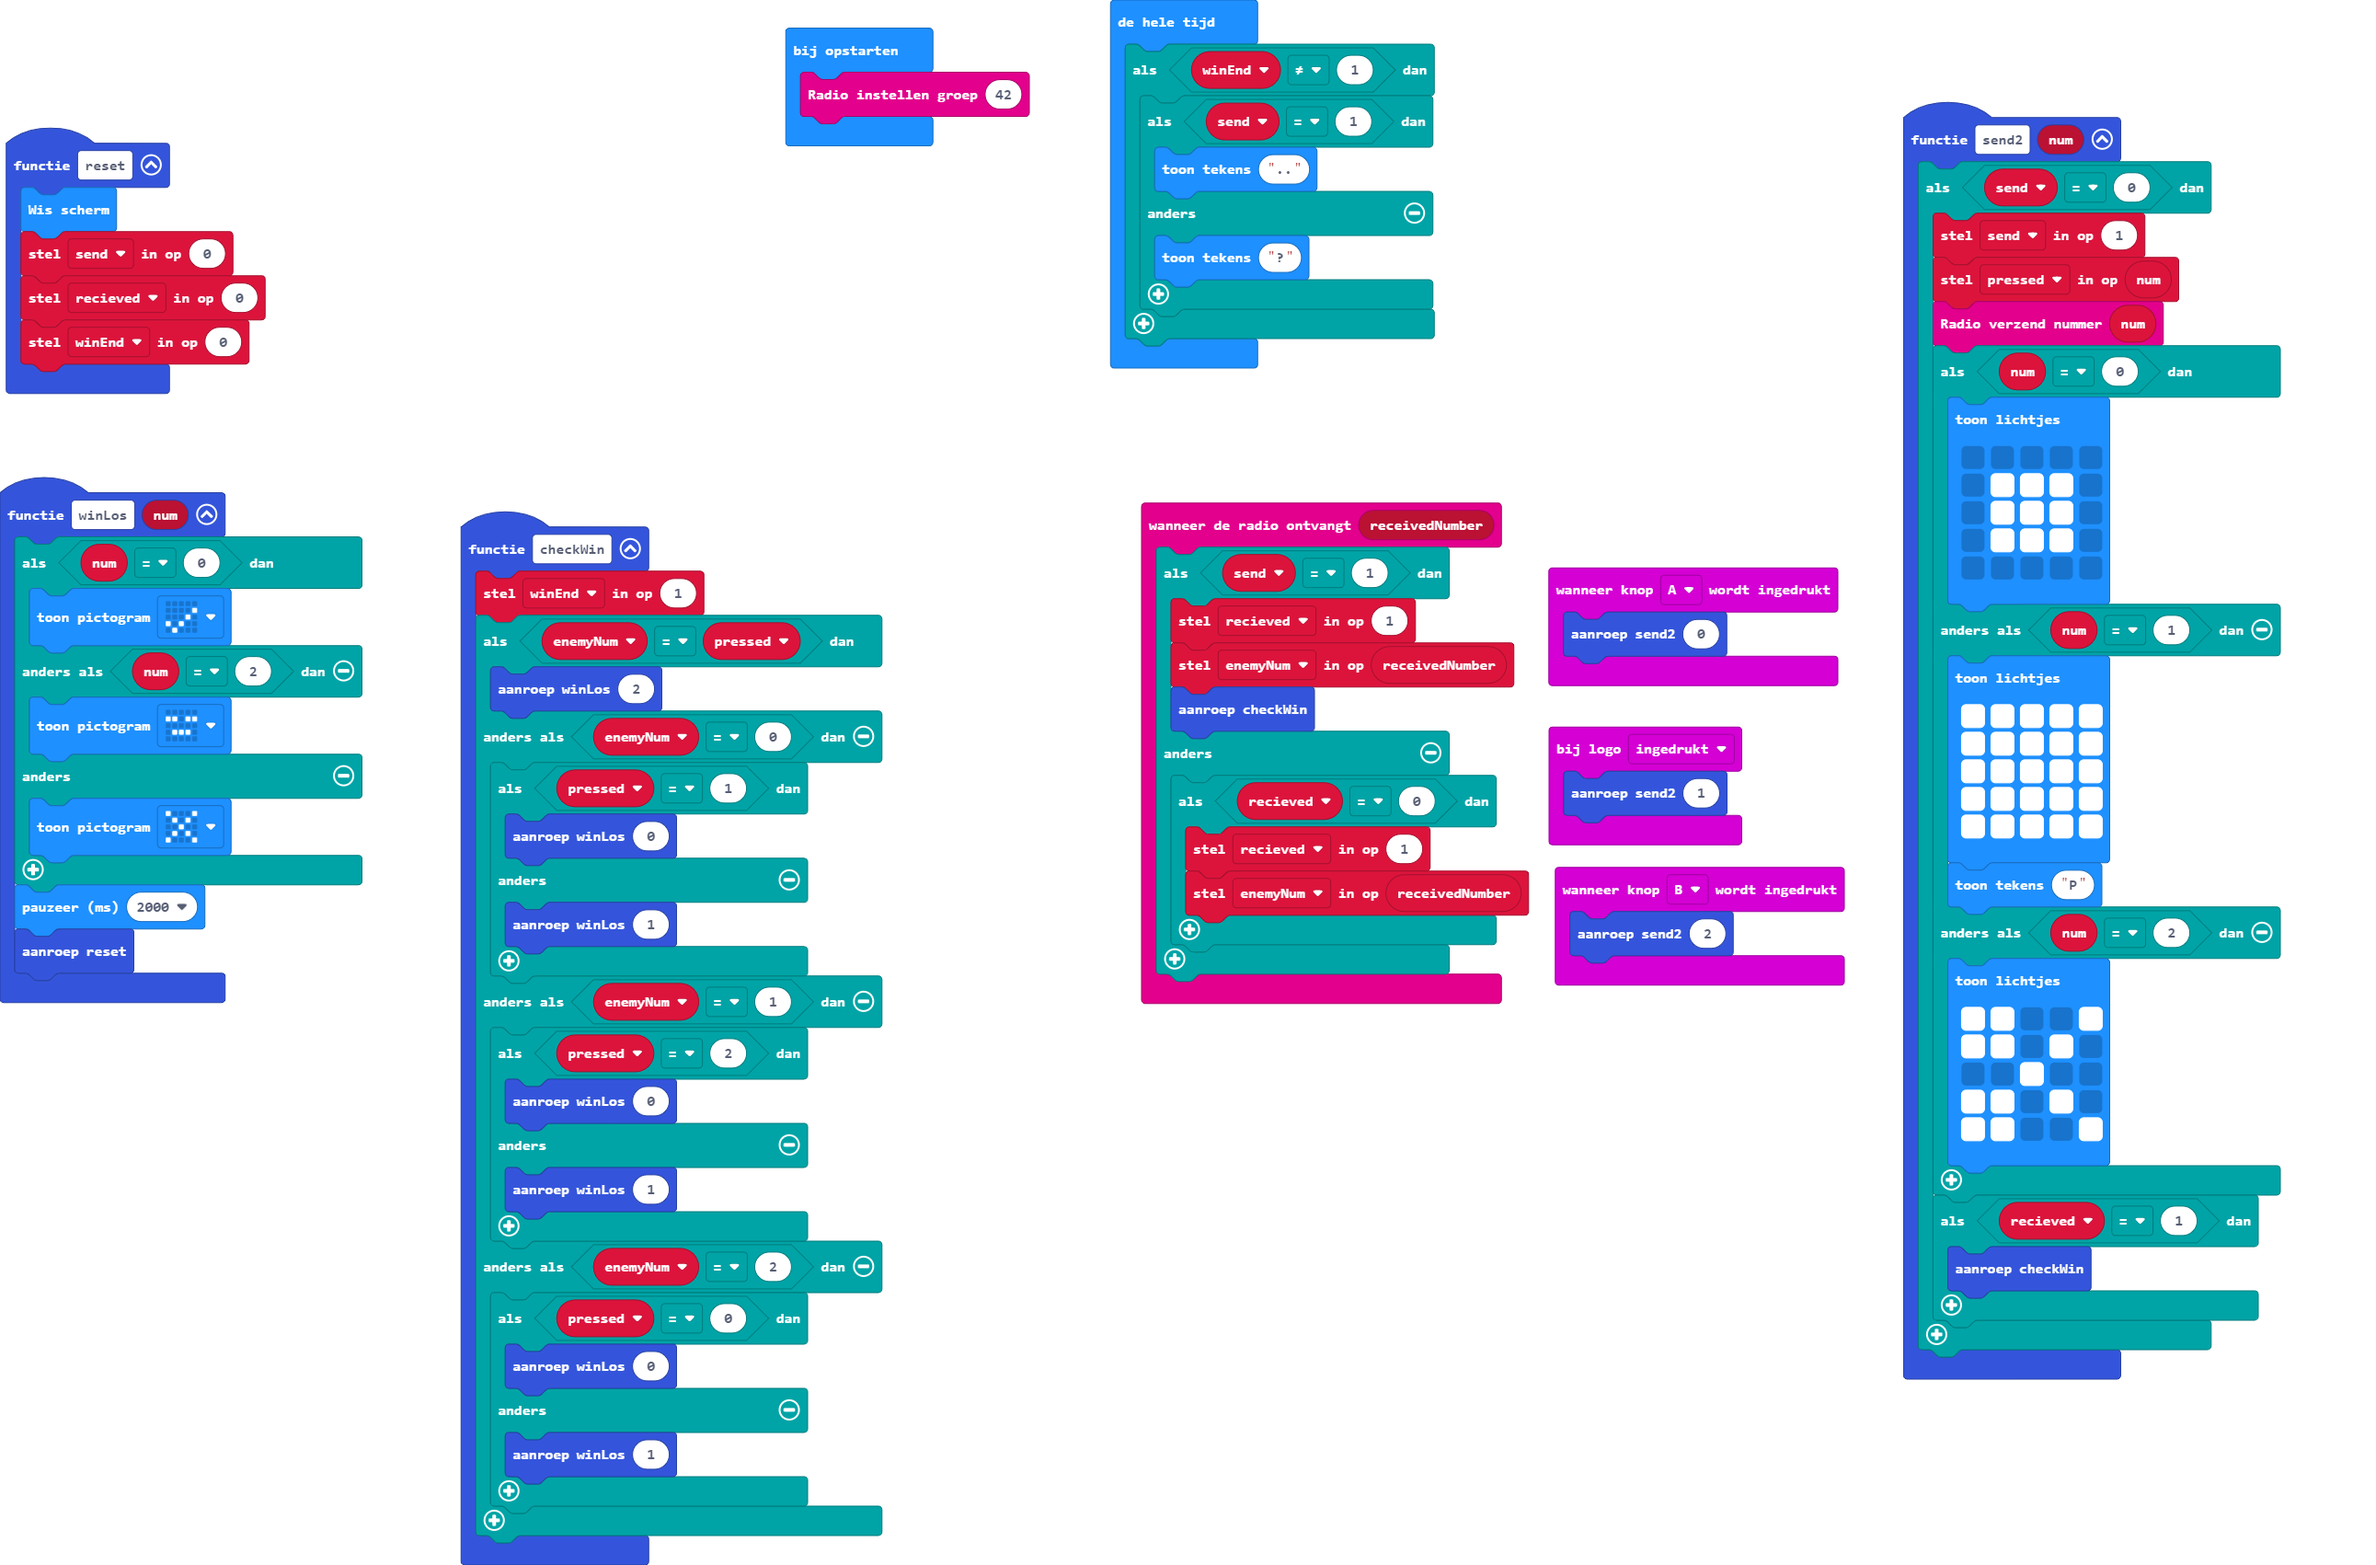
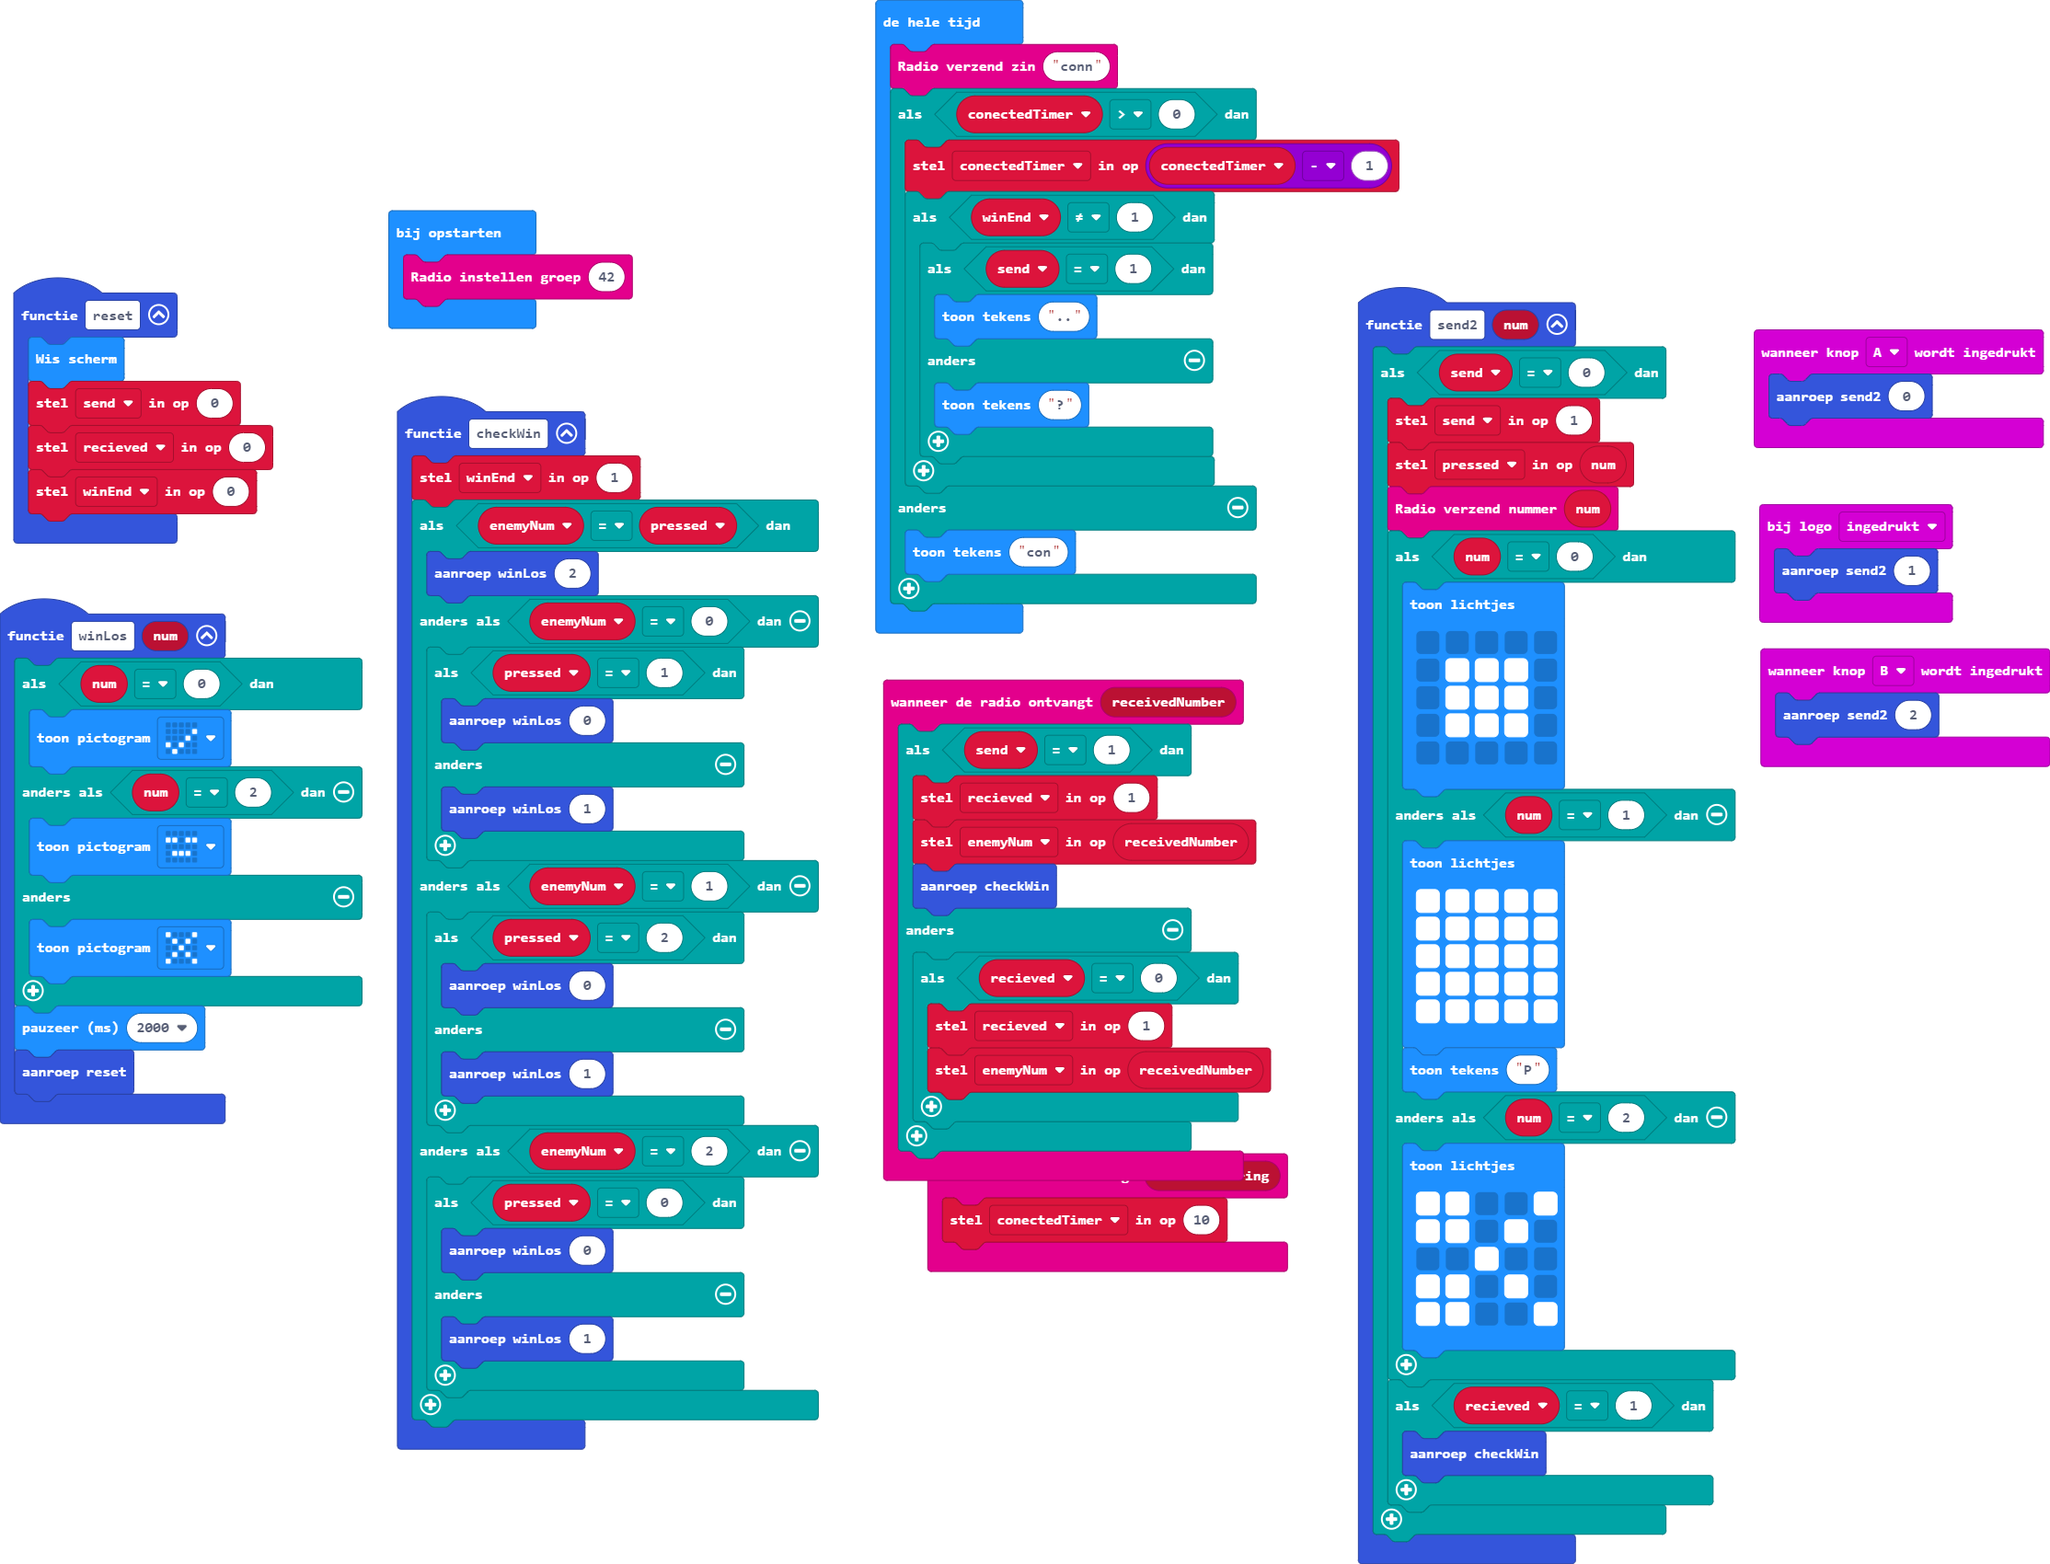
start connection

diff --git a/main.ts b/main.ts
@@ -87,6 +87,9 @@ function send2 (num: number) {
         }
     }
 }
+radio.onReceivedString(function (receivedString) {
+    conectedTimer = 10
+})
 input.onButtonPressed(Button.B, function () {
     send2(2)
 })
@@ -96,6 +99,7 @@ function reset () {
     recieved = 0
     winEnd = 0
 }
+let conectedTimer = 0
 let recieved = 0
 let send = 0
 let pressed = 0
@@ -103,11 +107,17 @@ let enemyNum = 0
 let winEnd = 0
 radio.setGroup(42)
 basic.forever(function () {
-    if (winEnd != 1) {
-        if (send == 1) {
-            basic.showString("..")
-        } else {
-            basic.showString("?")
+    radio.sendString("conn")
+    if (conectedTimer > 0) {
+        conectedTimer = conectedTimer - 1
+        if (winEnd != 1) {
+            if (send == 1) {
+                basic.showString("..")
+            } else {
+                basic.showString("?")
+            }
         }
+    } else {
+        basic.showString("con")
     }
 })
